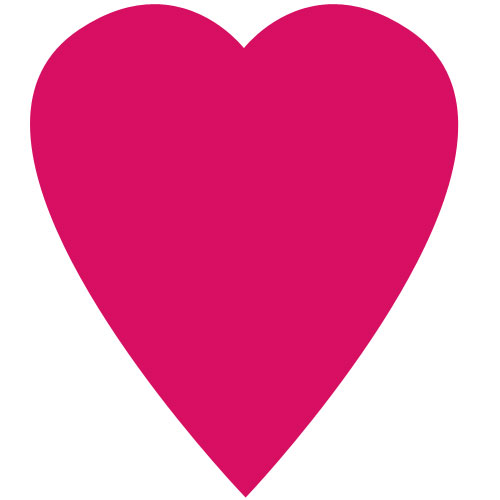
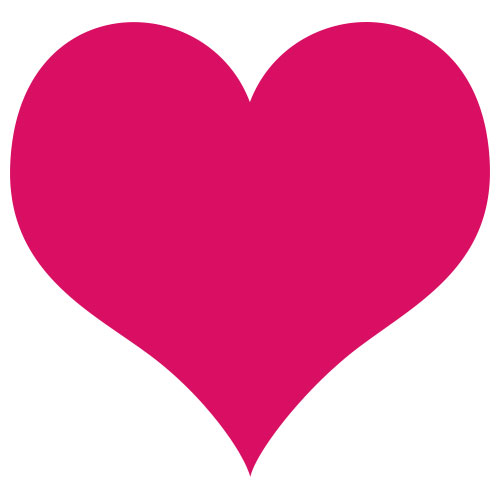
Updated heart images, modified css and index file
Made heart images rounder, tightened up some spacing, optimized for
1024x768, fixed a few punctuation errors and made a header suggestion.

Changed region(s): [[0.0, 0.06, 0.99, 1.0], [0.12, 0.0, 0.81, 0.21], [0.09, 0.09, 0.12, 0.12]]

diff --git a/index.html b/index.html
@@ -47,11 +47,11 @@
 
 <div class="slide">
 <h1>Hello!</h1>
-<h2>I'm Dave</h2>
+<h2>I'm Dave.</h2>
 <p>I try to make the web a more accessible place.</p>
 <ul>
 <li>I like clean code, open source, CrossFit and peanut butter and jelly sandwiches.
-<li>I worked as an Online Communications Manager for The Arc, a national nonprofit that serves people with disabilities.</li>
+<li>I worked as the Online Communications Manager for The Arc, a national nonprofit that serves people with disabilities.</li>
 <li>I use to be a journalist and still love writing.</li>
 </ul>
 </div>
@@ -73,13 +73,13 @@
 
 <div class="slide">
 <h1>What is Web Accessibility?</h1>
-<p>Definitions vary</p>
+<p>Definitions vary.</p>
 <blockquote>The practice of making websites and applications<br />usable by people of all abilities.</blockquote>
 </div>
 
 <div class="slide">
 <h1>What is Web Accessibility?</h1>
-<p>WordPress like this one</p>
+<p>WordPress likes this one:</p>
 <blockquote>Accessibility is the degree to which a product, device, service, or environment is available to as many people as possible.</blockquote><em><a href="http://www.icdri.org/CynthiaW/cynthia_d.htm">Cynthia Waddell</a></em><br>
 <small><a href="http://www.icdri.org/CynthiaW/cynthia_d.htm">http://www.icdri.org/CynthiaW/cynthia_d.htm</a></small>
 </div>
@@ -107,8 +107,7 @@
 
 <div class="slide">
 <h1>Accessible Zen</h1>
-<img src="img/screenshot.png" alt="Screenshot of Accessible Zen home page" class="aligncenter" />
-<p style="text-align: center;"><a href="http://wordpress.org/themes/accessible-zen/">Accessible Zen</a>, the inspiration for this talk.</p>
+<a href="http://wordpress.org/themes/accessible-zen/" title="Accessible Zen, the inspiration for this talk."><img src="img/screenshot.png" alt="Screenshot of Accessible Zen home page" class="aligncenter" /></a>
 </div>
 
 <div class="slide">
@@ -151,6 +150,7 @@
 <div class="slide">
 <h1>3. Small Details Make a Big Difference</h1>
 <p>Start with the basics.</p>
+<ul>
 <li><a href="http://underscores.me/">Starter theme: Underscores</a></li>
 <li><a href="http://wordpress.org/themes/twentythirteen">Core theme: Twenty Thirteen</a></li>
 <li><a href="https://github.com/RRWD/accessible-twenty-eleven-theme">Child theme: Accessible Twenty Eleven</a></li>
@@ -167,6 +167,10 @@
 <li>Text and images of text have a contrast ratio of at least 4.5:1</li>
 <li>Large text (over 18 point or 14 point bold) has a contrast ratio of at least 3:1</li>
 </ul>
+</div>
+
+<div class="slide">
+<h1>3. Small Details Make a Big Difference</h1>
 <p>Choose wisely:</p>
 <ul>
 <li><a href="http://accessibility.oit.ncsu.edu/tools/color-contrast/index.php">Color Palette Accessibility Checker</a></li>
@@ -221,8 +225,8 @@
 </div>
 
 <div class="slide">
-<h1>Where do we want to be with Accessibility?</h1>
-<img src="img/accessible-stairs.jpg" class="leader" alt="A set of stairs that combine stairs and a wheelchair ramp">
+<h1>Where do we want to be?</h1>
+<p><img src="img/accessible-stairs.jpg" class="leader" alt="A set of stairs that combine stairs and a wheelchair ramp"></p>
 </div>
 
 <div class="slide">
@@ -282,13 +286,13 @@
 
 <div class="slide">
 <h1>You're Awesome!</h1>
-<ul class="alignleft" style="width: 45%;">
+<ul class="alignleft" style="width: 70%; margin-right:5%">
 <li>Website: <a href="http://davidakennedy.com">davidakennedy.com</a></li>
 <li>Talk: <a href="http://davidakennedy.github.io/wclc2014/">http://davidakennedy.github.io/wclc2014/</a></li>
 <li>Twitter: <a href="http://twitter.com/davidakennedy">@DavidAKennedy</a></li>
 <li>Theme: <a href="http://wordpress.org/themes/accessible-zen">http://wordpress.org/themes/accessible-zen</a></li>
 </ul>
-<img src="img/heart-l.jpg" alt="Love you, audience!" class="alignright" />
+<img src="img/heart-s.jpg" alt="Love you, audience!" class="alignright" />
 </div>
 
 </div>

diff --git a/ui/zen/pretty.css b/ui/zen/pretty.css
@@ -8,10 +8,11 @@ body {background: #fff; color: #333; font-family: 'Open Sans', Verdana, Geneva, 
 h1, h2, h3, h4 {color: #d70f62; font-size: 100%; margin: 0; padding: 0; font-weight: 600;}
 ul, pre {margin: 0; line-height: 1em;}
 html, body {margin: 0; padding: 0;}
+img {max-width:100%;}
 
 blockquote, q {color: #666; font-style: italic;}
 blockquote {padding: 0 2em 0.5em; margin: 0 1.5em 0.5em; text-align: center; font-size: 1em;}
-blockquote p {margin: 0;}
+// blockquote p {margin: 0;}
 blockquote i {font-style: normal;}
 blockquote b {display: block; margin-top: 0.5em; font-weight: normal; font-size: smaller; font-style: normal;}
 blockquote b i {font-style: italic;}
@@ -36,9 +37,10 @@ div#footer { border-top: 1px solid #ccc; font-size: 0.5em; font-weight: bold; pa
 
 div.long {font-size: 0.75em;}
 .slide h1 {position: absolute; top: 0.7em; left: 0; z-index: 1;
-  margin: 0; padding: 0.3em 0 0 50px; white-space: nowrap;
-  font: bold 150%/1em; text-transform: capitalize;}
+  margin: 0; padding: 0.3em 0 0 4.25%; white-space: nowrap;
+  font: bold 150%/1 'Open Sans', Verdana, Geneva, sans-serif; text-transform: capitalize;}
 .slide h3 {font-size: 130%;}
+.slide p img {vertical-align:middle;}
 h1 abbr {font-variant: small-caps;}
 
 div#controls {position: absolute; left: 50%; bottom: 0;
@@ -57,10 +59,13 @@ div#controls form {position: absolute; bottom: 0; right: 0; width: 100%;
 #slide0 {padding-top: 3.5em; font-size: 90%;}
 #slide0 h1 {position: static; margin: 1em 0 0; padding: 0;
    font: bold 2em 'Open Sans', Verdana, Geneva, sans-serif; white-space: normal;
-   background: transparent;}
-#slide0 h2 {font: bold italic 1em 'Open Sans', Verdana, Geneva, sans-serif; margin: 0.25em;}
-#slide0 h3 {margin-top: 1.5em; font-size: 1.5em;}
+   background: transparent; line-height:1.2;}
+#slide0 h2 {font: bold italic 1em 'Open Sans', Verdana, Geneva, sans-serif; margin: 0.25em 0; color: #333;}
+#slide0 h3 {margin-top: 1.8em; font-size: 1.5em;}
 #slide0 h4 {margin-top: 0; font-size: 1em;}
+#slide0 p {font-size:90%; margin:0 .1em;}
+
+#slide2 p {margin:0;}
 
 ul.urls {list-style: none; display: inline; margin: 0;}
 .urls li {display: inline; margin: 0;}
